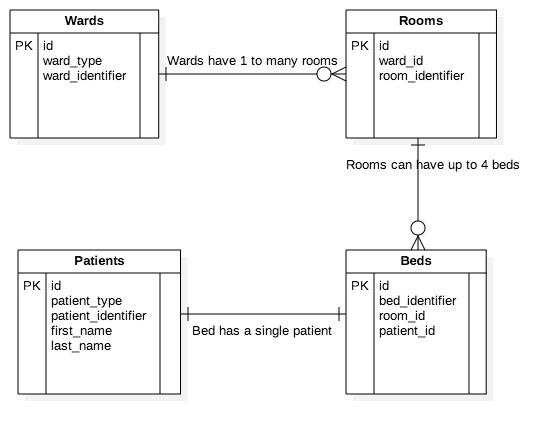
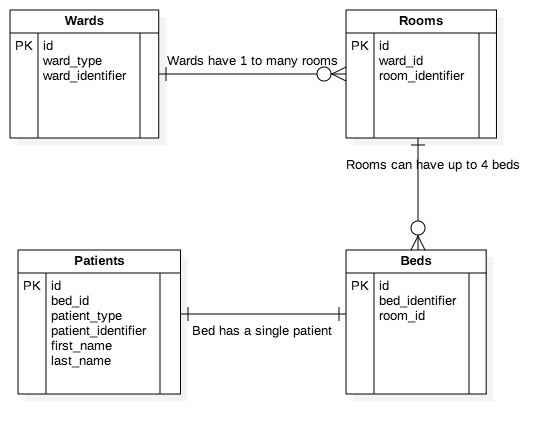
fixed the validation so that the bed and ward association to the patient only works with the right types

Changed region(s): [[0.0912, 0.659, 0.2737, 0.8387], [0.6691, 0.7488, 0.7907, 0.7788]]

diff --git a/spec/fast/models/patient_spec.rb b/spec/fast/models/patient_spec.rb
@@ -1,6 +1,17 @@
 require 'active_record_spec_helper'
 require 'spec_helper_fast'
 #
+require 'bed_validatable'
+require 'bed_validator'
+require 'ward_type_validatable'
+require 'ward_type_validator'
+#
+require 'bed'
+require 'room'
+require 'ward'
+require 'recovery_ward'
+require 'emergency_ward'
+require 'stable_ward'
 require 'patient'
 #
 describe Patient do
@@ -14,6 +25,64 @@ describe Patient do
   context 'testing the factory create' do
     it 'creates the patient without failure' do
       expect(FactoryGirl.create(:patient)).to be_valid
+    end
+  end
+
+  context 'correctly allocating a patient to a bed' do
+    it 'can only allocate a patient to a bed of the same patient/ward type' do
+      stable_ward = FactoryGirl.create(:stable_ward)
+      test_room = FactoryGirl.create(:room, ward_id: stable_ward.id)
+      test_bed = FactoryGirl.create(:bed, room_id: test_room.id)
+      stable_patient = FactoryGirl.build(:patient, patient_type: 'StablePatient')
+
+      stable_patient.ward_id = stable_ward
+      stable_patient.bed_id = test_bed
+
+      expect(stable_patient).to be_valid
+    end
+  end
+
+  context 'incorrectly allocating a patient to a bed' do
+    it 'cannot allocate a patient to a bed if the wrong patient/ward type' do
+      emergency_ward = FactoryGirl.create(:emergency_ward)
+      test_room = FactoryGirl.create(:room, ward_id: emergency_ward.id)
+      test_bed = FactoryGirl.create(:bed, room_id: test_room.id)
+      stable_patient = FactoryGirl.build(:patient,
+        patient_type: 'StablePatient',
+        ward_id: emergency_ward.id,
+        #ward_id: nil,
+        bed_id: test_bed.id
+      )
+
+      expect(stable_patient).to_not be_valid
+    end
+
+    it 'cannot allocate a patient to a bed if the no ward is set' do
+      recovery_ward = FactoryGirl.create(:recovery_ward)
+      test_room = FactoryGirl.create(:room, ward_id: recovery_ward.id)
+      test_bed = FactoryGirl.create(:bed, room_id: test_room.id)
+      stable_patient = FactoryGirl.build(:patient,
+        patient_type: 'StablePatient',
+        ward_id: nil,
+        bed_id: test_bed.id
+        )
+
+        expect(stable_patient).to_not be_valid
+      end
+  end
+
+  context 'must have a patient_type set' do
+    it 'must be one of the correct patient types' do
+      stable_patient = FactoryGirl.build(:patient, patient_type: 'StablePatient')
+      infectious_patient = FactoryGirl.build(:patient, patient_type: 'InfectiousPatient')
+      emergency_patient = FactoryGirl.build(:patient, patient_type: 'EmergencyPatient')
+      recovery_patient = FactoryGirl.build(:patient, patient_type: 'RecoveryPatient')
+
+      patient_types = [:stable, :emergency, :infectious, :recovery]
+      expect(patient_types).to include stable_patient.patient_type.underscore.split('_').first.to_sym
+      expect(patient_types).to include emergency_patient.patient_type.underscore.split('_').first.to_sym
+      expect(patient_types).to include infectious_patient.patient_type.underscore.split('_').first.to_sym
+      expect(patient_types).to include recovery_patient.patient_type.underscore.split('_').first.to_sym
     end
   end
 

diff --git a/spec/fast/models/ward_spec.rb b/spec/fast/models/ward_spec.rb
@@ -1,6 +1,10 @@
 require 'active_record_spec_helper'
 require 'spec_helper_fast'
 #
+require 'bed_validatable'
+require 'bed_validator'
+require 'ward_type_validatable'
+require 'ward_type_validator'
 require 'ward'
 #
 describe Ward do
@@ -17,4 +21,18 @@ describe Ward do
     end
   end
 
+  context 'must have a ward_type set' do
+    it 'must be one of the correct ward types' do
+      stable_ward = FactoryGirl.build(:ward, ward_type: 'StableWard')
+      infectious_ward = FactoryGirl.build(:ward, ward_type: 'InfectiousWard')
+      emergency_ward = FactoryGirl.build(:ward, ward_type: 'EmergencyWard')
+      recovery_ward = FactoryGirl.build(:ward, ward_type: 'RecoveryWard')
+
+      ward_names = [:stable, :emergency, :infectious, :recovery]
+      expect(ward_names).to include stable_ward.ward_type.underscore.split('_').first.to_sym
+      expect(ward_names).to include emergency_ward.ward_type.underscore.split('_').first.to_sym
+      expect(ward_names).to include infectious_ward.ward_type.underscore.split('_').first.to_sym
+      expect(ward_names).to include recovery_ward.ward_type.underscore.split('_').first.to_sym
+    end
+  end
 end

diff --git a/db/schema.rb b/db/schema.rb
@@ -11,7 +11,7 @@
 #
 # It's strongly recommended that you check this file into your version control system.
 
-ActiveRecord::Schema.define(version: 20150713094444) do
+ActiveRecord::Schema.define(version: 20150713095502) do
 
   # These are extensions that must be enabled in order to support this database
   enable_extension "plpgsql"
@@ -31,6 +31,7 @@ ActiveRecord::Schema.define(version: 20150713094444) do
 
   create_table "patients", id: :uuid, default: "uuid_generate_v4()", force: :cascade do |t|
     t.uuid     "ward_id"
+    t.uuid     "bed_id"
     t.string   "identifier",   limit: 50
     t.string   "patient_type"
     t.string   "first_name",   limit: 50
@@ -39,6 +40,7 @@ ActiveRecord::Schema.define(version: 20150713094444) do
     t.datetime "updated_at",              null: false
   end
 
+  add_index "patients", ["bed_id"], name: "index_patients_on_bed_id", using: :btree
   add_index "patients", ["identifier"], name: "index_patients_on_identifier", unique: true, using: :btree
   add_index "patients", ["ward_id"], name: "index_patients_on_ward_id", using: :btree
 

diff --git a/spec/fast/models/bed_spec.rb b/spec/fast/models/bed_spec.rb
@@ -1,6 +1,11 @@
 require 'active_record_spec_helper'
 require 'spec_helper_fast'
 #
+require 'bed_validatable'
+require 'bed_validator'
+require 'ward_type_validatable'
+require 'ward_type_validator'
+#
 require 'patient'
 require 'ward'
 require 'room'
@@ -22,7 +27,7 @@ describe Bed do
 
   context 'a bed can only have one patient' do
     it 'the bed is valid with an associated patient' do
-      test_patient = FactoryGirl.create(:patient)
+      test_patient = FactoryGirl.create(:stable_patient)
       test_bed = FactoryGirl.build(:bed, patient_id: test_patient.id)
       expect(test_bed).to be_valid
     end

diff --git a/db/migrate/20150713095502_create_patients.rb b/db/migrate/20150713095502_create_patients.rb
@@ -2,6 +2,7 @@ class CreatePatients < ActiveRecord::Migration
   def change
     create_table :patients, :id => :uuid do |t|
       t.uuid :ward_id, index: true, foreign_key: true
+      t.uuid :bed_id, index:true, foreign_key: true
       t.string :identifier, limit: 50 # - this is unique identifier such as a patient_id - readable English
       t.string :patient_type # - this will have the child object name to identify the type of patient
                              # - i.e. EmergencyPatient,   InfectiousPatient (We will use Rails STI)

diff --git a/spec/factories/infectious_patients.rb b/spec/factories/infectious_patients.rb
@@ -3,9 +3,11 @@ require 'faker'
 FactoryGirl.define do
   factory :infectious_patient do
     sequence(:id) { |n| SecureRandom.uuid }
-    sequence(:identifier) {|n| "PATIENTID-#{n}" }
+    sequence(:identifier) {|n| "INFECTIOUSPATIENTID-#{n}" }
 
     first_name { Faker::Name.first_name }
     last_name { Faker::Name.last_name }
+
+    patient_type 'InfectiousPatient'
   end
 end

diff --git a/spec/factories/emergency_patients.rb b/spec/factories/emergency_patients.rb
@@ -3,9 +3,11 @@ require 'faker'
 FactoryGirl.define do
   factory :emergency_patient do
     sequence(:id) { |n| SecureRandom.uuid }
-    sequence(:identifier) {|n| "PATIENTID-#{n}" }
+    sequence(:identifier) {|n| "EMERGENCYPATIENTID-#{n}" }
 
     first_name { Faker::Name.first_name }
     last_name { Faker::Name.last_name }
+
+    patient_type 'EmergencyPatient'
   end
 end

diff --git a/spec/factories/recovery_patients.rb b/spec/factories/recovery_patients.rb
@@ -3,9 +3,11 @@ require 'faker'
 FactoryGirl.define do
   factory :recovery_patient do
     sequence(:id) { |n| SecureRandom.uuid }
-    sequence(:identifier) {|n| "PATIENTID-#{n}" }
+    sequence(:identifier) {|n| "RECOVERYPATIENTID-#{n}" }
 
     first_name { Faker::Name.first_name }
     last_name { Faker::Name.last_name }
+
+    patient_type 'RecoveryPatient'
   end
 end

diff --git a/spec/factories/stable_patients.rb b/spec/factories/stable_patients.rb
@@ -3,9 +3,11 @@ require 'faker'
 FactoryGirl.define do
   factory :stable_patient do
     sequence(:id) { |n| SecureRandom.uuid }
-    sequence(:identifier) {|n| "PATIENTID-#{n}" }
+    sequence(:identifier) {|n| "STABLEPATIENTID-#{n}" }
 
     first_name { Faker::Name.first_name }
     last_name { Faker::Name.last_name }
+
+    patient_type 'StablePatient'
   end
 end

diff --git a/app/models/patient.rb b/app/models/patient.rb
@@ -3,7 +3,12 @@ class Patient < ActiveRecord::Base
   # and rails automatically adds the Class name of the child into this col
   self.inheritance_column = :patient_type
 
-  has_one :bed
-
+  belongs_to :bed
   belongs_to :ward
+
+  validates :patient_type, ward_type: true
+
+  validates :bed_id, bed: true
+
+  validates_presence_of :patient_type
 end

diff --git a/spec/factories/infectious_wards.rb b/spec/factories/infectious_wards.rb
@@ -3,7 +3,7 @@ require 'faker'
 FactoryGirl.define do
   factory :infectious_ward do
     sequence(:id) { |n| SecureRandom.uuid }
-    sequence(:identifier) {|n| "WARDID-#{n}" }
-
+    sequence(:identifier) {|n| "INFECTIOUSWARDID-#{n}" }
+    ward_type 'InfectiousWard'
   end
 end

diff --git a/spec/factories/emergency_wards.rb b/spec/factories/emergency_wards.rb
@@ -3,7 +3,7 @@ require 'faker'
 FactoryGirl.define do
   factory :emergency_ward do
     sequence(:id) { |n| SecureRandom.uuid }
-    sequence(:identifier) {|n| "WARDID-#{n}" }
-
+    sequence(:identifier) {|n| "EMERGENCYWARDID-#{n}" }
+    ward_type 'EmergencyWard'
   end
 end
